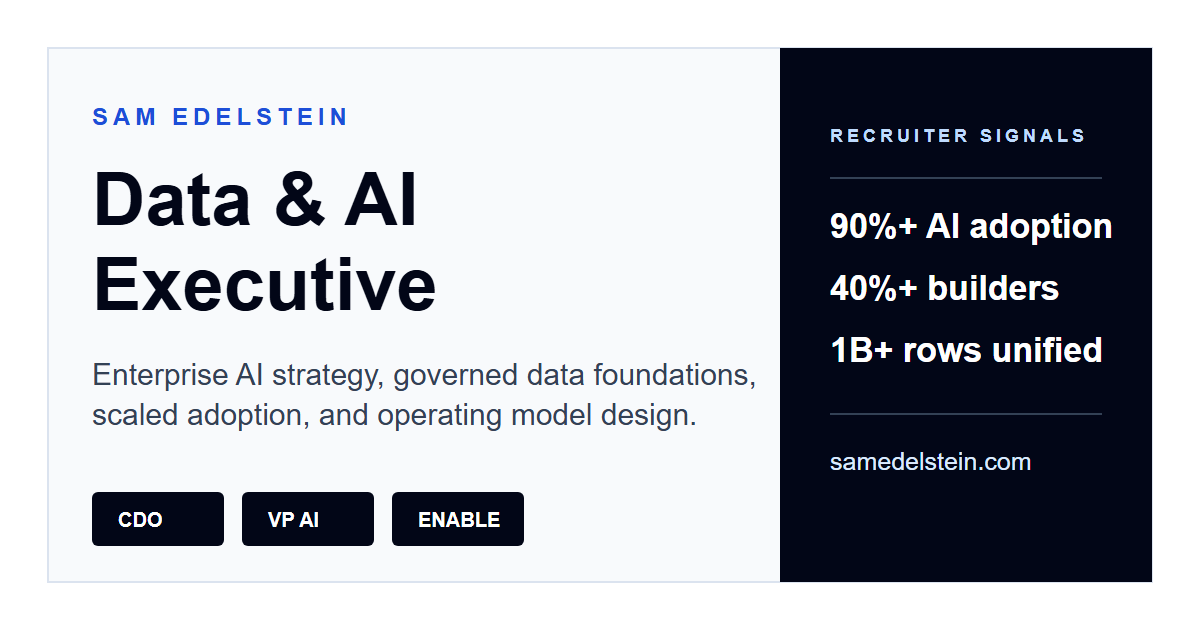
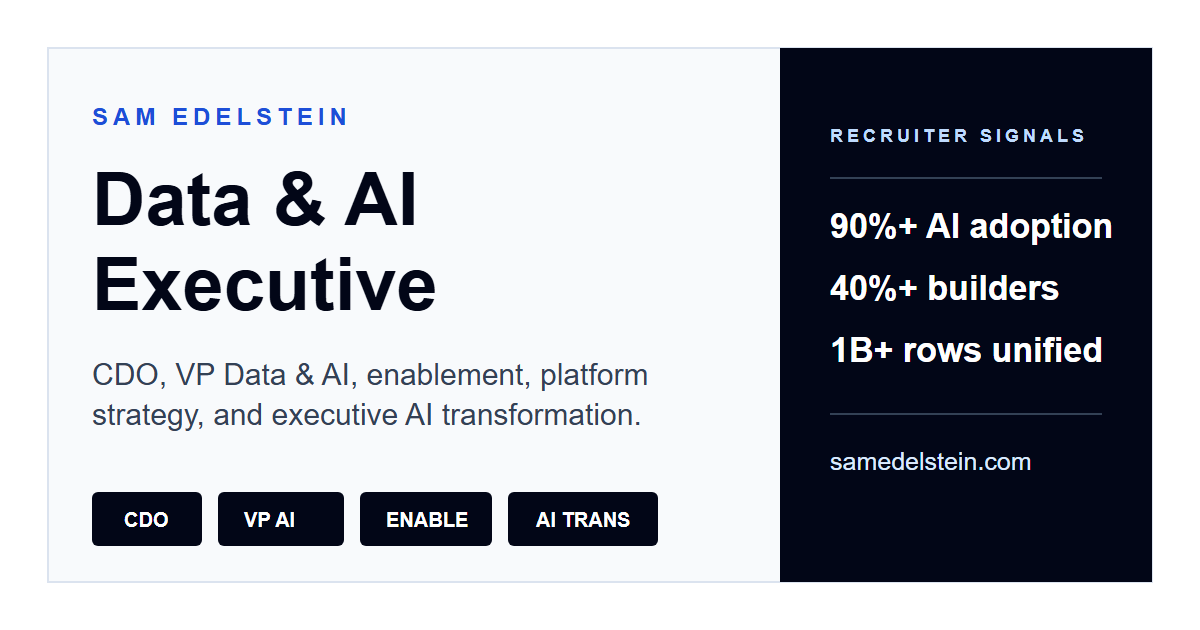
Align recruiter positioning copy

Changed region(s): [[0.0617, 0.573, 0.6167, 0.6937], [0.0925, 0.754, 0.555, 0.8746]]

diff --git a/site/src/App.jsx b/site/src/App.jsx
@@ -95,7 +95,7 @@ const recruiterReasons = [
 ];
 
 const availabilitySignals = [
-  ['Best fit', 'Executive Data & AI roles where strategy, platform, governance, and adoption all matter.'],
+  ['Best fit', 'Executive Data & AI roles where strategy, platform, governance, adoption, and AI transformation all matter.'],
   ['Location', 'Syracuse / New York; open to remote-first and selective hybrid executive mandates.'],
   ['Conversation', 'Recruiter, founder, operating partner, and executive team conversations are welcome.'],
 ];
@@ -360,7 +360,7 @@ const App = () => {
                       <a href="/recruiter/" className="inline-flex h-12 w-full items-center justify-center gap-2 rounded-md border border-slate-200 bg-white px-5 text-sm font-bold uppercase tracking-[0.08em] text-slate-900 transition-colors hover:border-blue-700 hover:text-blue-700 sm:w-auto"><FileText size={17} /><span>Recruiter Packet</span></a>
                       <button onClick={() => scrollToSection('case-studies-preview')} className="inline-flex h-12 w-full items-center justify-center gap-2 rounded-md border border-slate-200 bg-white px-5 text-sm font-bold uppercase tracking-[0.08em] text-slate-900 transition-colors hover:border-blue-700 hover:text-blue-700 sm:w-auto"><ArrowUpRight size={17} /><span>See Proof</span></button>
                     </div>
-                    <p className="mt-5 max-w-full break-words text-sm leading-relaxed text-slate-500 md:max-w-2xl">Open to selective executive conversations. Best fit: CDO, VP Data &amp; AI, Head of AI Enablement, and roles where platform, governance, adoption, and operating model design all matter.</p>
+                    <p className="mt-5 max-w-full break-words text-sm leading-relaxed text-slate-500 md:max-w-2xl">Open to selective executive conversations. Best fit: CDO, VP Data &amp; AI, Head of AI Enablement, AI transformation, and roles where platform, governance, adoption, and operating model design all matter.</p>
                   </div>
                 </div>
                 <div className="min-w-0 max-w-full border border-slate-950 bg-slate-950 text-white shadow-2xl shadow-slate-200">
@@ -621,7 +621,7 @@ const App = () => {
           <section className="mb-10 border-y border-slate-200 py-10">
             <span className="text-[11px] font-bold uppercase tracking-[0.24em] text-blue-700">Recruiter Packet</span>
             <h1 className="mt-4 max-w-full break-words text-4xl font-semibold tracking-tight text-slate-950 md:max-w-4xl md:text-6xl">Sam Edelstein for executive Data &amp; AI leadership roles.</h1>
-            <p className="mt-5 max-w-full break-words text-lg leading-relaxed text-slate-600 md:max-w-3xl">A concise packet for recruiters, search partners, founders, operating partners, and executive teams evaluating CDO, VP Data &amp; AI, AI enablement, and data platform strategy mandates.</p>
+            <p className="mt-5 max-w-full break-words text-lg leading-relaxed text-slate-600 md:max-w-3xl">A concise packet for recruiters, search partners, founders, operating partners, and executive teams evaluating CDO, VP Data &amp; AI, AI enablement, data platform strategy, and executive AI transformation mandates.</p>
           </section>
 
           <section className="grid grid-cols-1 gap-8 border-b border-slate-200 pb-12 lg:grid-cols-[minmax(0,1.2fr)_minmax(300px,0.8fr)]">

diff --git a/site/index.html b/site/index.html
@@ -7,11 +7,11 @@
     <meta name="theme-color" content="#020617" />
     <meta
       name="description"
-      content="Sam Edelstein is a Data & AI executive for CDO, VP Data & AI, AI enablement, and data platform strategy roles. Enterprise AI strategy, governance, adoption, and modern data foundations."
+      content="Sam Edelstein is a Data & AI executive for CDO, VP Data & AI, AI enablement, data platform strategy, and executive AI transformation roles. Enterprise AI strategy, governance, adoption, and modern data foundations."
     />
     <meta
       name="keywords"
-      content="Sam Edelstein, Data AI executive, Chief Data Officer, CDO, VP Data AI, Head of AI Enablement, enterprise AI strategy, data platform strategy, AI governance, data governance"
+      content="Sam Edelstein, Data AI executive, Chief Data Officer, CDO, VP Data AI, Head of AI Enablement, executive AI transformation, enterprise AI strategy, data platform strategy, AI governance, data governance"
     />
     <meta name="author" content="Sam Edelstein" />
     <meta name="referrer" content="strict-origin-when-cross-origin" />
@@ -50,7 +50,7 @@
     <meta name="twitter:title" content="Sam Edelstein | Data & AI Executive" />
     <meta
       name="twitter:description"
-      content="CDO, VP Data & AI, AI enablement, and data platform strategy leader focused on enterprise AI adoption, governance, and modern data foundations."
+      content="CDO, VP Data & AI, AI enablement, data platform strategy, and executive AI transformation leader focused on enterprise AI adoption, governance, and modern data foundations."
     />
     <meta name="twitter:image" content="https://samedelstein.com/social-card.png" />
     <script type="application/ld+json">
@@ -191,7 +191,7 @@
         }
       }
     </script>
-    <title>Sam Edelstein | Data & AI Executive for CDO, VP Data & AI, and AI Enablement Roles</title>
+    <title>Sam Edelstein | Data & AI Executive for CDO, VP Data & AI, and AI Transformation Roles</title>
   </head>
   <body>
     <div id="root"></div>
@@ -201,7 +201,7 @@
         <h1 style="max-width: 760px; margin: 0; font-size: 48px; line-height: 1.04; letter-spacing: 0;">Sam Edelstein is a Data &amp; AI executive for teams turning AI ambition into operating capability.</h1>
         <p style="max-width: 720px; margin: 22px 0 0; color: #475569; font-size: 19px;">
           Senior Vice President, Data &amp; AI at Insight Partners. Best-fit roles include Chief Data Officer, VP / Head of Data &amp; AI,
-          Head of AI Enablement, and data platform strategy leader.
+          Head of AI Enablement, data platform strategy, and executive AI transformation leader.
         </p>
         <div style="display: flex; flex-wrap: wrap; gap: 12px; margin-top: 30px;">
           <a href="/recruiter/" style="display: inline-flex; min-height: 44px; align-items: center; justify-content: center; border: 1px solid #020617; border-radius: 6px; background: #020617; color: #ffffff; padding: 10px 16px; font-size: 12px; font-weight: 800; letter-spacing: 0.08em; text-transform: uppercase; text-decoration: none;">Recruiter Packet</a>

diff --git a/site/public/roles/index.html b/site/public/roles/index.html
@@ -6,13 +6,13 @@
     <meta name="theme-color" content="#020617" />
     <meta
       name="description"
-      content="Role fit for Sam Edelstein across Chief Data Officer, VP Data & AI, Head of AI Enablement, and data platform strategy searches."
+      content="Role fit for Sam Edelstein across Chief Data Officer, VP Data & AI, Head of AI Enablement, data platform strategy, and executive AI transformation searches."
     />
     <link rel="canonical" href="https://samedelstein.com/roles/" />
     <meta property="og:title" content="Sam Edelstein | Executive Data & AI Role Fit" />
     <meta
       property="og:description"
-      content="Recruiter-facing role fit for CDO, VP Data & AI, AI enablement, and data platform strategy mandates."
+      content="Recruiter-facing role fit for CDO, VP Data & AI, AI enablement, data platform strategy, and executive AI transformation mandates."
     />
     <meta property="og:type" content="website" />
     <meta property="og:url" content="https://samedelstein.com/roles/" />
@@ -21,7 +21,7 @@
     <meta name="twitter:title" content="Sam Edelstein | Executive Data & AI Role Fit" />
     <meta
       name="twitter:description"
-      content="Chief Data Officer, VP Data & AI, AI enablement, and data platform strategy role-fit notes."
+      content="Chief Data Officer, VP Data & AI, AI enablement, data platform strategy, and executive AI transformation role-fit notes."
     />
     <meta name="twitter:image" content="https://samedelstein.com/social-card.png" />
     <title>Sam Edelstein | Executive Data & AI Role Fit</title>
@@ -230,7 +230,7 @@
         <div class="wrap">
           <p class="eyebrow">Role Fit</p>
           <h1>Executive Data &amp; AI mandates where Sam is a strong fit.</h1>
-          <p class="lead">A fast recruiter scan for CDO, VP Data &amp; AI, AI enablement, and data platform strategy searches.</p>
+          <p class="lead">A fast recruiter scan for CDO, VP Data &amp; AI, AI enablement, data platform strategy, and executive AI transformation searches.</p>
           <div class="quick">
             <a href="/roles/chief-data-officer/">Chief Data Officer</a>
             <a href="/roles/vp-data-ai/">VP / Head of Data &amp; AI</a>

diff --git a/site/public/recruiter/index.html b/site/public/recruiter/index.html
@@ -6,7 +6,7 @@
     <meta name="theme-color" content="#020617" />
     <meta
       name="description"
-      content="Recruiter packet for Sam Edelstein, a Data & AI executive for CDO, VP Data & AI, Head of AI Enablement, and data platform strategy roles."
+      content="Recruiter packet for Sam Edelstein, a Data & AI executive for CDO, VP Data & AI, Head of AI Enablement, data platform strategy, and executive AI transformation roles."
     />
     <link rel="canonical" href="https://samedelstein.com/recruiter/" />
     <meta property="og:title" content="Sam Edelstein | Recruiter Packet" />
@@ -21,7 +21,7 @@
     <meta name="twitter:title" content="Sam Edelstein | Recruiter Packet" />
     <meta
       name="twitter:description"
-      content="Data & AI executive recruiter packet for CDO, VP Data & AI, AI enablement, and data platform strategy searches."
+      content="Data & AI executive recruiter packet for CDO, VP Data & AI, AI enablement, data platform strategy, and executive AI transformation searches."
     />
     <meta name="twitter:image" content="https://samedelstein.com/social-card.png" />
     <title>Sam Edelstein | Recruiter Packet</title>
@@ -299,7 +299,7 @@
         <div class="wrap">
           <p class="eyebrow">Recruiter Packet</p>
           <h1>Sam Edelstein for executive Data &amp; AI leadership roles.</h1>
-          <p class="lead">A concise packet for recruiters, search partners, founders, operating partners, and executive teams evaluating CDO, VP Data &amp; AI, AI enablement, and data platform strategy mandates.</p>
+          <p class="lead">A concise packet for recruiters, search partners, founders, operating partners, and executive teams evaluating CDO, VP Data &amp; AI, AI enablement, data platform strategy, and executive AI transformation mandates.</p>
         </div>
       </section>
 

diff --git a/site/public/contact/index.html b/site/public/contact/index.html
@@ -6,7 +6,7 @@
     <meta name="theme-color" content="#020617" />
     <meta
       name="description"
-      content="Contact Sam Edelstein for executive Data & AI leadership, CDO, VP Data & AI, AI enablement, and data platform strategy searches."
+      content="Contact Sam Edelstein for executive Data & AI leadership, CDO, VP Data & AI, AI enablement, data platform strategy, and executive AI transformation searches."
     />
     <link rel="canonical" href="https://samedelstein.com/contact/" />
     <meta property="og:title" content="Contact Sam Edelstein | Data & AI Executive" />
@@ -277,7 +277,7 @@
         <div class="wrap">
           <p class="eyebrow">Contact</p>
           <h1>Executive conversations about Data &amp; AI leadership.</h1>
-          <p class="lead">For recruiters, search partners, founders, operating partners, and executive teams evaluating CDO, VP Data &amp; AI, AI enablement, and data platform strategy mandates.</p>
+          <p class="lead">For recruiters, search partners, founders, operating partners, and executive teams evaluating CDO, VP Data &amp; AI, AI enablement, data platform strategy, and executive AI transformation mandates.</p>
         </div>
       </section>
 
@@ -297,7 +297,7 @@
           <ul>
             <li><strong>Email:</strong> sam.i.edelstein@gmail.com</li>
             <li><strong>Location:</strong> Syracuse / New York; open to remote-first and selective hybrid executive mandates.</li>
-            <li><strong>Best fit:</strong> CDO, VP Data &amp; AI, Head of AI Enablement, and data platform strategy roles.</li>
+            <li><strong>Best fit:</strong> CDO, VP Data &amp; AI, Head of AI Enablement, data platform strategy, and executive AI transformation roles.</li>
           </ul>
         </aside>
       </section>
